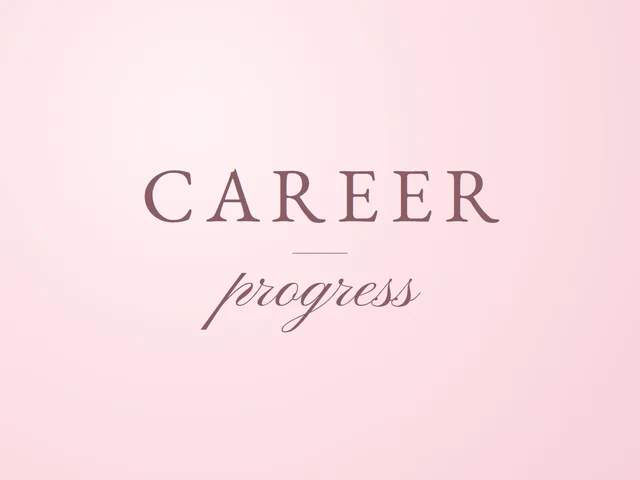
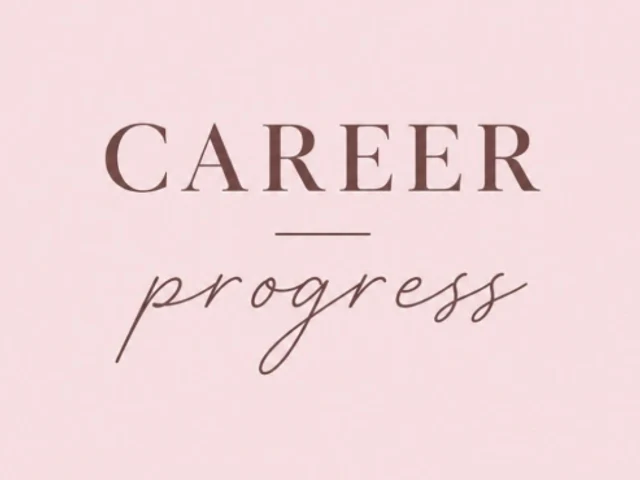
Use the original Career progress image for the CareerClub card

diff --git a/community.html b/community.html
@@ -22,7 +22,7 @@
       <button class="menu-toggle" aria-label="Open navigation" aria-expanded="false" aria-controls="mobile-nav"><span></span><span></span></button>
     </div>
     <nav id="mobile-nav" class="mobile-nav" aria-label="Mobile navigation" hidden=""><a href="/">Home</a><a href="/story">About</a><a href="/community" aria-current="page">Our community</a><a href="/events">Events</a><a href="/faq">FAQ</a><a href="/contact">Contact</a><a href="/join">Join us <svg class="ui-icon" viewBox="0 0 24 24" width="18" height="18" fill="none" stroke="currentColor" stroke-width="1.7" stroke-linecap="round" stroke-linejoin="round" aria-hidden="true" focusable="false"><path d="M5 19 19 5M5 5h14v14"></path></svg></a></nav>
-  </header><main id="main" class="detail-page community-page"><div class="container page-return"><a href="/" data-back=""><svg class="ui-icon" viewBox="0 0 24 24" fill="none" stroke="currentColor" stroke-width="1.7" aria-hidden="true"><path d="M20 12H4m7-7-7 7 7 7"></path></svg> Back</a></div><div class="container page-heading circle-intro" data-reveal=""><div class="circle-intro-copy"><p class="eyebrow">GIRLS IN LUXEMBOURG</p><h1>Our <em>community.</em></h1><p>Shared interests. New friendships. Discover the groups that bring us together.</p></div><figure class="circle-intro-photo"><img decoding="async" data-media-slot="community-photo-1" src="assets/community-2.webp" srcset="assets/community-2-small.webp 640w, assets/community-2.webp 1400w" sizes="(max-width: 700px) 100vw, 45vw" width="1400" height="1200" alt="Women sharing a relaxed moment at a community gathering"><figcaption>Shared interests. Real connections.</figcaption></figure></div><section class="container page-prose community-content"><div class="panel-prose panel-community"><div class="community-circles"><div class="community-circle"><img decoding="async" data-media-slot="community-photo-2" class="circle-mobile-photo" src="assets/community-2-small.webp" alt="" width="640" height="480" loading="lazy" srcset="assets/community-2-small.webp 640w, assets/community-2.webp 1400w" sizes="(max-width:700px) 85vw, 50vw"><div class="circle-card-copy"><div class="circle-card-top"><span class="circle-number">01</span><span>EVERYDAY CONNECTIONS</span></div><h2><strong>GirlsClub</strong></h2><p>This is our main community chat: a place where everything comes together! From Beauty &amp; Coffee meetups to everyday conversations, fun outings and cinema nights.</p><p>It’s where we share ideas, make plans, discover new experiences, support one another and, most importantly, get to know each other better.</p><p>Whether it’s a spontaneous conversation, a girls’ night out, planning our next meetup or simply sharing a moment from your day, there’s always room to connect.</p><p class="circle-lead">Led by <strong>Fabrina</strong></p></div></div><div class="community-circle"><img decoding="async" data-media-slot="community-photo-3" class="circle-mobile-photo" src="assets/community-bookclub-small.webp" alt="" width="640" height="480" loading="lazy" srcset="assets/community-bookclub-small.webp 640w, assets/community-bookclub.webp 960w" sizes="(max-width:700px) 85vw, 50vw"><div class="circle-card-copy"><div class="circle-card-top"><span class="circle-number">02</span><span>READ &amp; SHARE</span></div><h2><strong>BookClub</strong></h2><p>Our refuge for all women who love reading. A cosy and welcoming space to share your favourite reads, discover new books, exchange thoughts, and connect with like-minded women over the magic of storytelling.</p><p class="circle-lead">Led by <strong>Cynthia</strong></p></div></div><div class="community-circle"><img decoding="async" data-media-slot="community-photo-4" class="circle-mobile-photo" src="assets/community-moms-cafe-small.webp" alt="" width="640" height="458" loading="lazy" srcset="assets/community-moms-cafe-small.webp 640w, assets/community-moms-cafe.webp 1296w" sizes="(max-width:700px) 85vw, 50vw"><div class="circle-card-copy"><div class="circle-card-top"><span class="circle-number">03</span><span>MOTHERHOOD &amp; SUPPORT</span></div><h2><strong>Moms'Club</strong></h2><p>Being a mom is a beautiful journey, and having a supportive community around you can make it even more meaningful.  This space welcomes moms and moms-to-be to connect, share experiences, discover new friendships, and enjoy the special moments of motherhood together. </p><p class="circle-lead">Led by <strong>Zahra</strong></p></div></div><div class="community-circle"><img decoding="async" data-media-slot="community-photo-5" class="circle-mobile-photo" src="assets/community-3-small.webp" alt="" width="640" height="480" loading="lazy" srcset="assets/community-3-small.webp 640w, assets/community-3.webp 1400w" sizes="(max-width:700px) 85vw, 50vw"><div class="circle-card-copy"><div class="circle-card-top"><span class="circle-number">04</span><span>OUTDOORS &amp; ADVENTURE</span></div><h2><strong>Walk/HikeClub</strong></h2><p>An active space for women in Luxembourg who love to explore the city through casual walks or hiking adventures!</p><p class="circle-lead">Led by <strong>Fabrina and Elizabeth</strong></p></div></div><div class="community-circle"><img decoding="async" data-media-slot="community-photo-6" class="circle-mobile-photo" src="assets/community-fitclub-badminton-small.webp" alt="" width="640" height="480" loading="lazy" srcset="assets/community-fitclub-badminton-small.webp 640w, assets/community-fitclub-badminton.webp 1280w" sizes="(max-width:700px) 85vw, 50vw"><div class="circle-card-copy"><div class="circle-card-top"><span class="circle-number">05</span><span>SPORT &amp; WELLBEING</span></div><h2><strong>FitClub</strong></h2><p>A women's space dedicated to staying active and having fun while doing it! From badminton, paddle and tennis to yoga, pilates and run club, this group brings together all things sport and movement.</p><p class="circle-lead">Led by <strong>Christina</strong></p></div></div><div class="community-circle"><img decoding="async" data-media-slot="community-photo-7" class="circle-mobile-photo" src="assets/community-career-progress-small.webp" alt="" width="640" height="480" loading="lazy" srcset="assets/community-career-progress-small.webp 640w, assets/community-career-progress.webp 1400w" sizes="(max-width:700px) 85vw, 50vw"><div class="circle-card-copy"><div class="circle-card-top"><span class="circle-number">06</span><span>WORK &amp; OPPORTUNITIES</span></div><h2><strong>CareerClub</strong></h2><p>This space invites you to connect, meet like-minded women, empower your professional skills, network and find your next role of your career. </p><p class="circle-lead">Led by <strong>Marta </strong>(LinkedIn group) and<strong> Enare</strong> (WhatsApp group).</p></div></div><div class="community-circle"><img decoding="async" data-media-slot="community-photo-8" class="circle-mobile-photo" src="assets/community-pottery-october-small.webp" alt="" width="640" height="480" loading="lazy" srcset="assets/community-pottery-october-small.webp 640w, assets/community-pottery-october.webp 1600w" sizes="(max-width:700px) 85vw, 50vw"><div class="circle-card-copy"><div class="circle-card-top"><span class="circle-number">07</span><span>MAKE &amp; CREATE</span></div><h2><strong>Craft Corner</strong></h2><p>A relaxed space to make things with your hands and pick up a new skill from someone else in the room.</p><p class="circle-lead">Led by <strong>Marta</strong></p></div></div><div class="community-circle"><img decoding="async" data-media-slot="community-photo-9" class="circle-mobile-photo" src="assets/community-language-collage-small.webp" alt="" width="640" height="480" loading="lazy" srcset="assets/community-language-collage-small.webp 640w, assets/community-language-collage.webp 1400w" sizes="(max-width:700px) 85vw, 50vw"><div class="circle-card-copy"><div class="circle-card-top"><span class="circle-number">08</span><span>LEARN &amp; CONNECT</span></div><h2><strong>Language Exchange</strong></h2><p>Whether you’re looking for one-to-one sessions or interactive group sessions, this space helps you find people to practise or improve your language skills with.</p><p class="circle-lead">Led by <strong>Marta</strong></p></div></div><div class="community-circle"><img decoding="async" data-media-slot="community-photo-10" class="circle-mobile-photo" src="assets/community-7-small.webp" alt="" width="640" height="480" loading="lazy" srcset="assets/community-7-small.webp 640w, assets/community-7.webp 1400w" sizes="(max-width:700px) 85vw, 50vw"><div class="circle-card-copy"><div class="circle-card-top"><span class="circle-number">09</span><span>DISCOVER &amp; EXPLORE</span></div><h2><strong>TravelClub</strong></h2><p>A space where women come together to share everything about travelling! From hidden gems and city guides to travel tips and country discoveries, this is your go-to room for all things adventure. We share advice, recommendations, and inspire each other to explore the world. </p><p class="circle-lead">Led by <strong>Enare</strong></p></div></div></div></div></section><section class="moments-section section container" aria-label="Community moments">
+  </header><main id="main" class="detail-page community-page"><div class="container page-return"><a href="/" data-back=""><svg class="ui-icon" viewBox="0 0 24 24" fill="none" stroke="currentColor" stroke-width="1.7" aria-hidden="true"><path d="M20 12H4m7-7-7 7 7 7"></path></svg> Back</a></div><div class="container page-heading circle-intro" data-reveal=""><div class="circle-intro-copy"><p class="eyebrow">GIRLS IN LUXEMBOURG</p><h1>Our <em>community.</em></h1><p>Shared interests. New friendships. Discover the groups that bring us together.</p></div><figure class="circle-intro-photo"><img decoding="async" data-media-slot="community-photo-1" src="assets/community-2.webp" srcset="assets/community-2-small.webp 640w, assets/community-2.webp 1400w" sizes="(max-width: 700px) 100vw, 45vw" width="1400" height="1200" alt="Women sharing a relaxed moment at a community gathering"><figcaption>Shared interests. Real connections.</figcaption></figure></div><section class="container page-prose community-content"><div class="panel-prose panel-community"><div class="community-circles"><div class="community-circle"><img decoding="async" data-media-slot="community-photo-2" class="circle-mobile-photo" src="assets/community-2-small.webp" alt="" width="640" height="480" loading="lazy" srcset="assets/community-2-small.webp 640w, assets/community-2.webp 1400w" sizes="(max-width:700px) 85vw, 50vw"><div class="circle-card-copy"><div class="circle-card-top"><span class="circle-number">01</span><span>EVERYDAY CONNECTIONS</span></div><h2><strong>GirlsClub</strong></h2><p>This is our main community chat: a place where everything comes together! From Beauty &amp; Coffee meetups to everyday conversations, fun outings and cinema nights.</p><p>It’s where we share ideas, make plans, discover new experiences, support one another and, most importantly, get to know each other better.</p><p>Whether it’s a spontaneous conversation, a girls’ night out, planning our next meetup or simply sharing a moment from your day, there’s always room to connect.</p><p class="circle-lead">Led by <strong>Fabrina</strong></p></div></div><div class="community-circle"><img decoding="async" data-media-slot="community-photo-3" class="circle-mobile-photo" src="assets/community-bookclub-small.webp" alt="" width="640" height="480" loading="lazy" srcset="assets/community-bookclub-small.webp 640w, assets/community-bookclub.webp 960w" sizes="(max-width:700px) 85vw, 50vw"><div class="circle-card-copy"><div class="circle-card-top"><span class="circle-number">02</span><span>READ &amp; SHARE</span></div><h2><strong>BookClub</strong></h2><p>Our refuge for all women who love reading. A cosy and welcoming space to share your favourite reads, discover new books, exchange thoughts, and connect with like-minded women over the magic of storytelling.</p><p class="circle-lead">Led by <strong>Cynthia</strong></p></div></div><div class="community-circle"><img decoding="async" data-media-slot="community-photo-4" class="circle-mobile-photo" src="assets/community-moms-cafe-small.webp" alt="" width="640" height="458" loading="lazy" srcset="assets/community-moms-cafe-small.webp 640w, assets/community-moms-cafe.webp 1296w" sizes="(max-width:700px) 85vw, 50vw"><div class="circle-card-copy"><div class="circle-card-top"><span class="circle-number">03</span><span>MOTHERHOOD &amp; SUPPORT</span></div><h2><strong>Moms'Club</strong></h2><p>Being a mom is a beautiful journey, and having a supportive community around you can make it even more meaningful.  This space welcomes moms and moms-to-be to connect, share experiences, discover new friendships, and enjoy the special moments of motherhood together. </p><p class="circle-lead">Led by <strong>Zahra</strong></p></div></div><div class="community-circle"><img decoding="async" data-media-slot="community-photo-5" class="circle-mobile-photo" src="assets/community-3-small.webp" alt="" width="640" height="480" loading="lazy" srcset="assets/community-3-small.webp 640w, assets/community-3.webp 1400w" sizes="(max-width:700px) 85vw, 50vw"><div class="circle-card-copy"><div class="circle-card-top"><span class="circle-number">04</span><span>OUTDOORS &amp; ADVENTURE</span></div><h2><strong>Walk/HikeClub</strong></h2><p>An active space for women in Luxembourg who love to explore the city through casual walks or hiking adventures!</p><p class="circle-lead">Led by <strong>Fabrina and Elizabeth</strong></p></div></div><div class="community-circle"><img decoding="async" data-media-slot="community-photo-6" class="circle-mobile-photo" src="assets/community-fitclub-badminton-small.webp" alt="" width="640" height="480" loading="lazy" srcset="assets/community-fitclub-badminton-small.webp 640w, assets/community-fitclub-badminton.webp 1280w" sizes="(max-width:700px) 85vw, 50vw"><div class="circle-card-copy"><div class="circle-card-top"><span class="circle-number">05</span><span>SPORT &amp; WELLBEING</span></div><h2><strong>FitClub</strong></h2><p>A women's space dedicated to staying active and having fun while doing it! From badminton, paddle and tennis to yoga, pilates and run club, this group brings together all things sport and movement.</p><p class="circle-lead">Led by <strong>Christina</strong></p></div></div><div class="community-circle"><img decoding="async" data-media-slot="community-photo-7" class="circle-mobile-photo" src="assets/community-career-progress-small.webp" alt="" width="640" height="480" loading="lazy" srcset="assets/community-career-progress-small.webp 640w, assets/community-career-progress.webp 1000w" sizes="(max-width:700px) 85vw, 50vw"><div class="circle-card-copy"><div class="circle-card-top"><span class="circle-number">06</span><span>WORK &amp; OPPORTUNITIES</span></div><h2><strong>CareerClub</strong></h2><p>This space invites you to connect, meet like-minded women, empower your professional skills, network and find your next role of your career. </p><p class="circle-lead">Led by <strong>Marta </strong>(LinkedIn group) and<strong> Enare</strong> (WhatsApp group).</p></div></div><div class="community-circle"><img decoding="async" data-media-slot="community-photo-8" class="circle-mobile-photo" src="assets/community-pottery-october-small.webp" alt="" width="640" height="480" loading="lazy" srcset="assets/community-pottery-october-small.webp 640w, assets/community-pottery-october.webp 1600w" sizes="(max-width:700px) 85vw, 50vw"><div class="circle-card-copy"><div class="circle-card-top"><span class="circle-number">07</span><span>MAKE &amp; CREATE</span></div><h2><strong>Craft Corner</strong></h2><p>A relaxed space to make things with your hands and pick up a new skill from someone else in the room.</p><p class="circle-lead">Led by <strong>Marta</strong></p></div></div><div class="community-circle"><img decoding="async" data-media-slot="community-photo-9" class="circle-mobile-photo" src="assets/community-language-collage-small.webp" alt="" width="640" height="480" loading="lazy" srcset="assets/community-language-collage-small.webp 640w, assets/community-language-collage.webp 1400w" sizes="(max-width:700px) 85vw, 50vw"><div class="circle-card-copy"><div class="circle-card-top"><span class="circle-number">08</span><span>LEARN &amp; CONNECT</span></div><h2><strong>Language Exchange</strong></h2><p>Whether you’re looking for one-to-one sessions or interactive group sessions, this space helps you find people to practise or improve your language skills with.</p><p class="circle-lead">Led by <strong>Marta</strong></p></div></div><div class="community-circle"><img decoding="async" data-media-slot="community-photo-10" class="circle-mobile-photo" src="assets/community-7-small.webp" alt="" width="640" height="480" loading="lazy" srcset="assets/community-7-small.webp 640w, assets/community-7.webp 1400w" sizes="(max-width:700px) 85vw, 50vw"><div class="circle-card-copy"><div class="circle-card-top"><span class="circle-number">09</span><span>DISCOVER &amp; EXPLORE</span></div><h2><strong>TravelClub</strong></h2><p>A space where women come together to share everything about travelling! From hidden gems and city guides to travel tips and country discoveries, this is your go-to room for all things adventure. We share advice, recommendations, and inspire each other to explore the world. </p><p class="circle-lead">Led by <strong>Enare</strong></p></div></div></div></div></section><section class="moments-section section container" aria-label="Community moments">
       <div class="moments-grid" data-reveal=""><figure class="moment"><img decoding="async" data-media-slot="community-photo-11" src="assets/community-2.webp" srcset="assets/community-2-small.webp 640w, assets/community-2.webp 1400w" sizes="(max-width:767px) 100vw, 50vw" alt="Women enjoying a community gathering" width="1400" height="1200" loading="lazy"><div><span class="eyebrow">Connect &amp; belong</span><h3>From strangers to friends.</h3></div></figure><figure class="moment"><img decoding="async" data-media-slot="community-photo-12" src="assets/community-1.webp" srcset="assets/community-1-small.webp 640w, assets/community-1.webp 1400w" sizes="(max-width:767px) 100vw, 50vw" alt="A creative painting session" width="1400" height="1200" loading="lazy"><div><span class="eyebrow">Create &amp; grow</span><h3>Explore your creativity.</h3></div></figure><figure class="moment"><img decoding="async" data-media-slot="community-photo-13" src="assets/community-3.webp" srcset="assets/community-3-small.webp 640w, assets/community-3.webp 1400w" sizes="(max-width:767px) 100vw, 50vw" alt="Women together on a hike" width="1400" height="1200" loading="lazy"><div><span class="eyebrow">Move &amp; explore</span><h3>Discover and be active.</h3></div></figure><figure class="moment"><img decoding="async" data-media-slot="community-photo-14" src="assets/community-6.webp" srcset="assets/community-6-small.webp 640w, assets/community-6.webp 1400w" sizes="(max-width:767px) 100vw, 50vw" alt="Women around a brunch table" width="1400" height="1200" loading="lazy"><div><span class="eyebrow">Where the girls come together</span><h3>There’s a place for you.</h3></div></figure></div>
     </section><section class="container page-next"><h2>Meet the women<br><em>behind it all.</em></h2><a class="button btn-pill" href="/team">Meet the team <svg class="ui-icon" viewBox="0 0 24 24" fill="none" stroke="currentColor" stroke-width="1.7" aria-hidden="true"><path d="M5 19 19 5M5 5h14v14"></path></svg></a></section></main><footer class="footer container"><div class="footer-top"><div class="footer-community"><h3>Girls in Luxembourg <svg class="footer-title-flag" viewBox="0 0 30 20" width="30" height="20" aria-hidden="true"><rect width="30" height="20" rx="3" fill="#fff"/><path d="M3 0h24a3 3 0 0 1 3 3v4H0V3a3 3 0 0 1 3-3Z" fill="#ED2939"/><path d="M0 13h30v4a3 3 0 0 1-3 3H3a3 3 0 0 1-3-3Z" fill="#00A1DE"/></svg></h3><p>Our community is on a mission to help women connect, make friends and support each other across the Grand Duchy and border regions.</p><p class="footer-label" id="footer-social-label">Social media</p><nav class="footer-socials" aria-labelledby="footer-social-label"><a href="https://www.instagram.com/girlsinluxembourg/" target="_blank" rel="noopener noreferrer" aria-label="Instagram"><svg viewBox="0 0 24 24" width="22" height="22" fill="currentColor" aria-hidden="true"><rect x="3" y="3" width="18" height="18" rx="5" fill="none" stroke="currentColor" stroke-width="2"></rect><circle cx="12" cy="12" r="4" fill="none" stroke="currentColor" stroke-width="2"></circle><circle cx="17.5" cy="6.5" r="1.2"></circle></svg></a><a href="https://www.tiktok.com/@girlsinluxembourg" target="_blank" rel="noopener noreferrer" aria-label="TikTok"><svg viewBox="0 0 24 24" width="22" height="22" fill="currentColor" aria-hidden="true"><path d="M14 2h3c.3 2.5 1.7 4 4 4.5v3a10 10 0 0 1-4-1.2V16a6 6 0 1 1-6-6v3a3 3 0 1 0 3 3z"></path></svg></a><a href="https://www.linkedin.com/groups/42510001" target="_blank" rel="noopener noreferrer" aria-label="LinkedIn Career Network"><svg viewBox="0 0 24 24" width="22" height="22" fill="currentColor" aria-hidden="true"><path d="M4 8h3v13H4zM10 8h3v1.8c1-1.6 2.4-2.1 4-2.1 3.3 0 4 2.1 4 5.2V21h-3v-7.2c0-1.9-.4-3.1-2.2-3.1-2 0-2.8 1.4-2.8 3.4V21h-3z"></path><circle cx="5.5" cy="4" r="1.9"></circle></svg></a><a href="/join" title="Ask to join our WhatsApp group" aria-label="Ask to join our WhatsApp group"><svg viewBox="0 0 24 24" width="22" height="22" fill="currentColor" aria-hidden="true"><path d="M20.5 11.6a8.5 8.5 0 0 1-12.6 7.5L3 20.5l1.4-4.8A8.5 8.5 0 1 1 20.5 11.6Z" fill="none" stroke="currentColor" stroke-width="1.8"></path><path d="M8 7c-.6 0-1.2.8-1.2 1.6 0 2.8 4.4 7.2 7.2 7.2.9 0 1.8-.6 1.9-1.3l.2-1-2.7-1.3-1 1c-1.5-.6-2.6-1.7-3.2-3.1l1-1L9 7z"></path></svg></a></nav></div><div class="footer-find"><h3>About us</h3><a href="/story">Our story</a><a href="/team">The Team</a><a href="/join">Join us</a><a href="/faq">FAQ</a></div><div class="footer-info"><h3>Contact us</h3><a href="mailto:hello@girlsinlu.com">hello@girlsinlu.com <svg class="ui-icon" viewBox="0 0 24 24" width="18" height="18" fill="none" stroke="currentColor" stroke-width="1.7" stroke-linecap="round" stroke-linejoin="round" aria-hidden="true" focusable="false"><path d="M5 19 19 5M5 5h14v14"></path></svg></a><a href="/partnerships">Partner with us</a><a href="/contact#volunteer">Become a volunteer</a><a href="/feedback">Feedback</a></div></div><div class="footer-bottom"><span>© 2026 Girls in Luxembourg. All rights reserved.</span><a href="/policy" rel="noopener noreferrer">Privacy &amp; refund policy</a><a href="#" class="back-top">Back to top <svg class="ui-icon" viewBox="0 0 24 24" width="18" height="18" fill="none" stroke="currentColor" stroke-width="1.7" stroke-linecap="round" stroke-linejoin="round" aria-hidden="true" focusable="false"><path d="M12 20V4m-7 7 7-7 7 7"></path></svg></a></div></footer>
 
